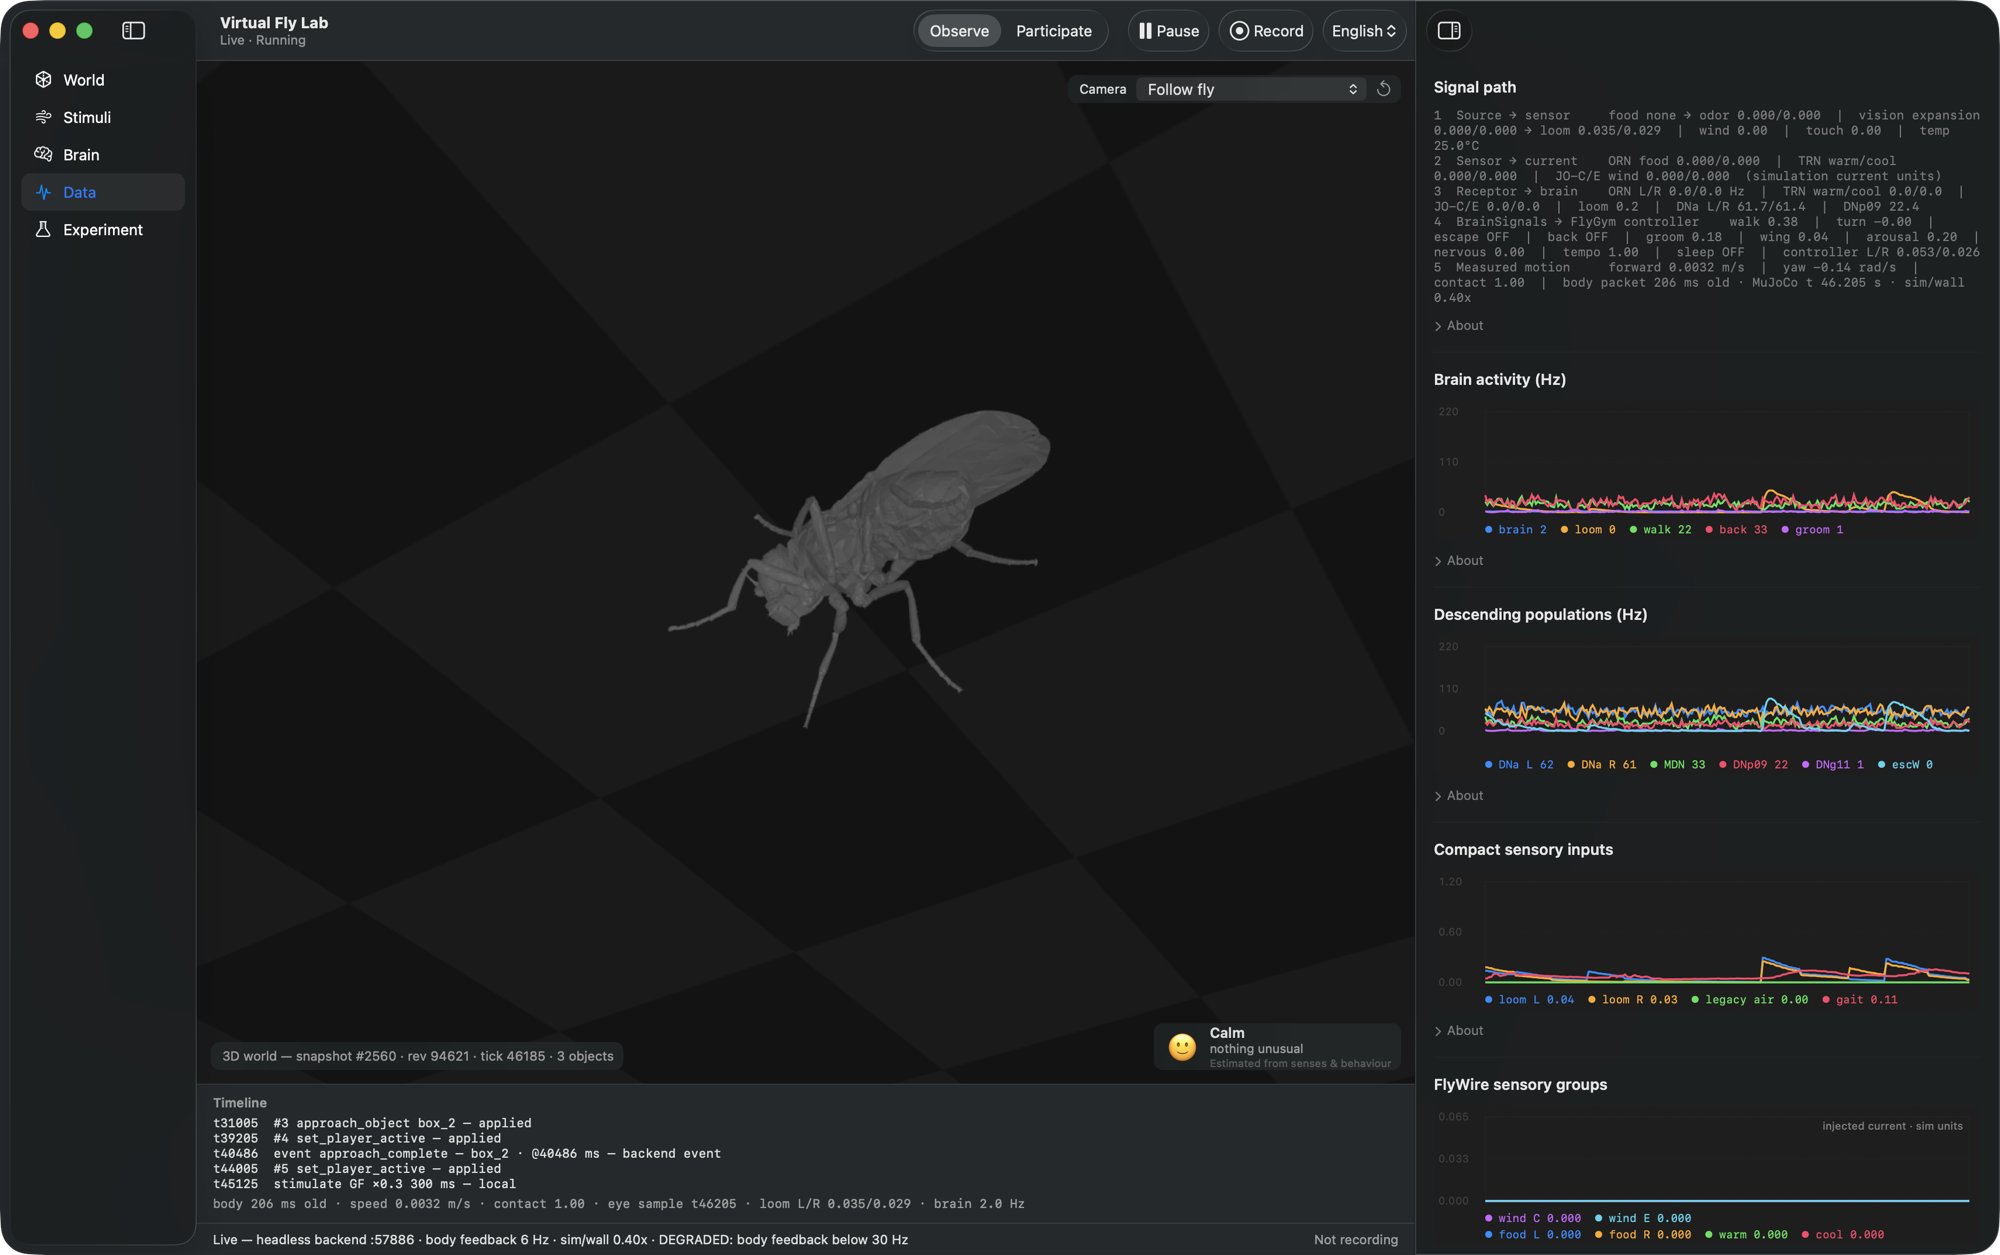
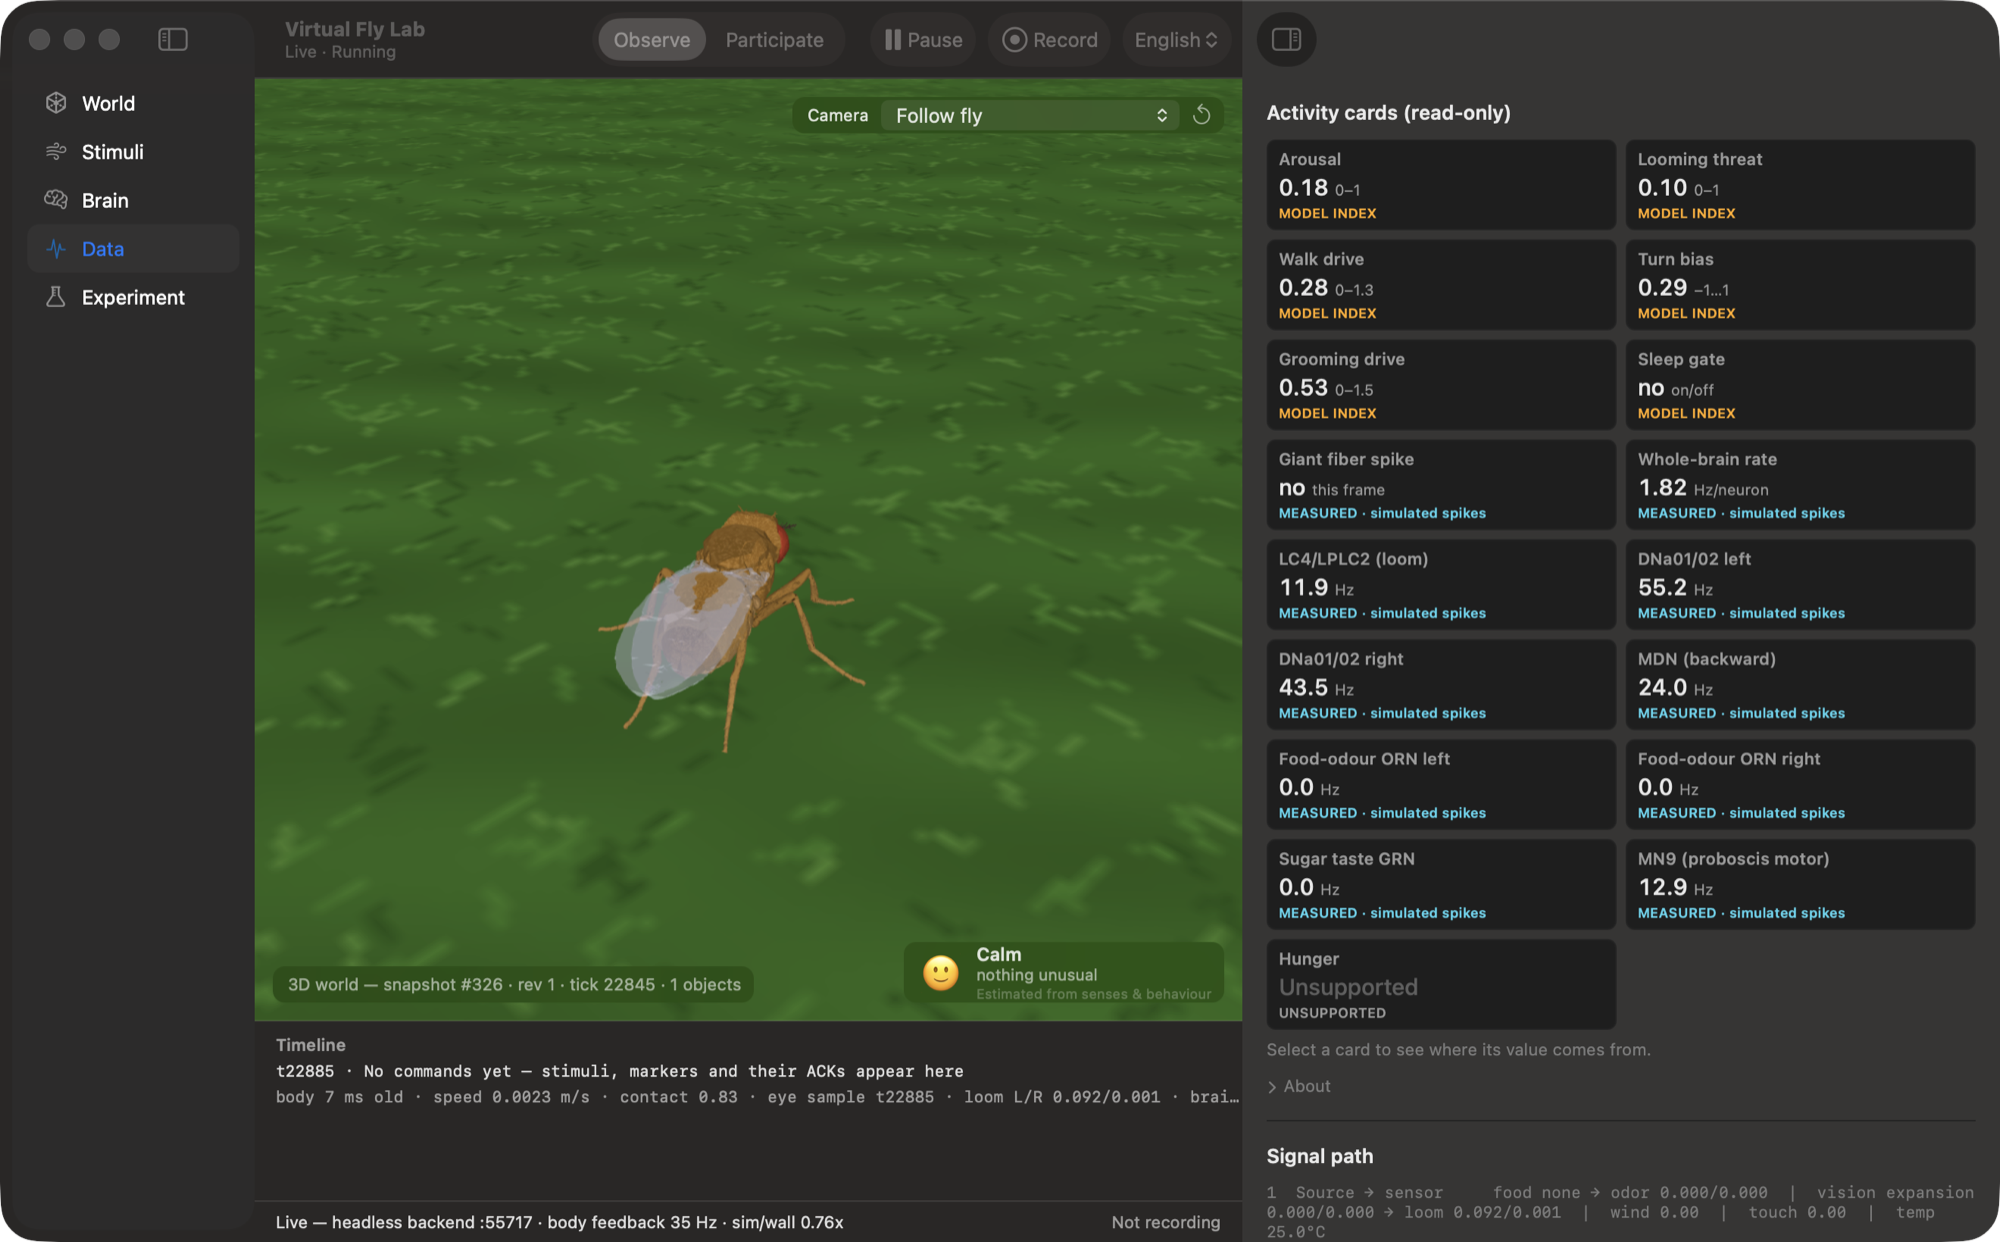
Update README and screenshots for V5.6.2 sandbox, V5.7 cards, performance

diff --git a/README.md b/README.md
@@ -9,20 +9,21 @@
   <img alt="macOS" src="https://img.shields.io/badge/platform-macOS%20·%20Apple%20Silicon-111111?style=flat-square">
   <img alt="Swift" src="https://img.shields.io/badge/frontend-Swift%20%2B%20Metal-F05138?style=flat-square">
   <img alt="FlyGym" src="https://img.shields.io/badge/body-FlyGym%202.1%20%2B%20MuJoCo%203.9-5C7CFA?style=flat-square">
-  <img alt="status" src="https://img.shields.io/badge/V5.6.1-grab%20%26%20place%20·%20complete-2E8B57?style=flat-square">
+  <img alt="status" src="https://img.shields.io/badge/V5.7-sandbox%20·%20activity%20cards-2E8B57?style=flat-square">
 </p>
 
 <p align="center">
-  <img src="docs/images/ui-world.png" width="920" alt="Virtual Fly Lab window: source-list sidebar, MuJoCo render of the NeuroMechFly body following the fly, and the World inspector with the object placement map">
+  <img src="docs/images/ui-world.png" width="920" alt="Virtual Fly Lab window: the colourised NeuroMechFly fly walking on the grass lawn toward a banana, with cheese, an apple and a toy car nearby, and the World inspector with the object placement map">
 </p>
-<p align="center"><sub>The one-window Lab on an M2 MacBook Air, real FlyGym backend. The canvas is MuJoCo's own offscreen render of the NeuroMechFly v2 body; the inspector places physical objects on a top-down map.</sub></p>
+<p align="center"><sub>The one-window Lab on an M2 MacBook Air, real FlyGym backend. The canvas is MuJoCo's own offscreen render: the colourised NeuroMechFly v2 fly on the 300 mm lawn, walking toward a banana next to cheese, an apple and a toy car. The inspector places physical objects on a top-down map. (The status line flags body feedback below 30 Hz right after a pause/resume; it recovers to about 35 Hz.)</sub></p>
 
 **Thongpari Fly Neuron Sim** grew out of the SiliconFly desktop fly into an interactive **virtual fly lab**:
 
 - **Brain** — the shipped FlyWire v783 connectome as a **139,255-neuron, 15,091,983-edge** leaky-integrate-and-fire network at 1 kHz in a Metal compute shader.
 - **Body** — a real **NeuroMechFly v2** model in **FlyGym 2.1 / MuJoCo**, not a scripted animation.
 - **Closed loop** — descending-neuron activity drives the FlyGym walking controller; measured body state, rendered-eye vision, contacts, odor, wind and temperature flow back into identified neural populations.
-- **You** — a participant body in the same MuJoCo world: walk with WASD, look with the mouse, and pick up and carry objects.
+- **You** — a stick-figure participant in the same MuJoCo world: walk with WASD, look with the mouse, pick up and carry objects, and fire a toy BB gun.
+- **Sandbox** — a grass lawn, six food models the fly can actually eat (proboscis contact → sugar-taste neurons), a toy car and a cage trap.
 
 The point is not to fake convincing animal behavior. Every response can be traced along **source → modeled sensor → receptor activity → brain output → controller → measured motion**, and every control says whether it is physical, a sensory model, or direct neural stimulation.
 
@@ -36,15 +37,15 @@ The point is not to fake convincing animal behavior. Every response can be trace
     <td width="50%"><img src="docs/images/ui-brain.png" alt="Brain page: 139,255-neuron point cloud with spike flashes, a colour legend of the behaviour-relevant populations and direct stimulation controls"></td>
   </tr>
   <tr>
-    <td><b>Participate</b> — a free-joint body that collides with the fly and objects. Walk, look, grab and place from first- or third-person cameras.</td>
+    <td><b>Participate</b> — a free-joint body that collides with the fly and objects. Walk, look, grab and place from first- or third-person cameras. <i>(Screenshot from V5.6.1; the participant is now a stick figure.)</i></td>
     <td><b>Brain</b> — the whole-brain point cloud with live spike flashes, what each colour means, and direct stimulation of named populations.</td>
   </tr>
   <tr>
-    <td><img src="docs/images/ui-data.png" alt="Data page: signal path from source to measured motion, brain activity and descending population graphs, sensory inputs"></td>
+    <td><img src="docs/images/ui-data.png" alt="Data page: read-only activity cards (model indices, measured simulated spike rates, sugar-taste GRN, MN9, unsupported hunger) next to the live 3D view"></td>
     <td><img src="docs/images/ui-experiment.png" alt="Experiment page: deterministic session, trial markers, physical and sensory trials, direct neural trials"></td>
   </tr>
   <tr>
-    <td><b>Data</b> — the signal path line by line, plus live graphs of brain activity, descending populations and sensory drive.</td>
+    <td><b>Data</b> — read-only activity cards (V5.7), then the signal path line by line and live graphs of brain activity, descending populations and sensory drive.</td>
     <td><b>Experiment</b> — deterministic sessions, trial markers, preset physical/sensory and direct-neural trials, CSV recording.</td>
   </tr>
 </table>
@@ -53,7 +54,7 @@ The point is not to fake convincing animal behavior. Every response can be trace
 
 ## Status
 
-**V5.6.1 is complete (2026-09-27).** Next on the [roadmap](docs/plans/VIRTUAL_FLY_LAB_ROADMAP.md) is **V5.7** — read-only activity cards built from the telemetry that already exists (no invented hunger/emotion values).
+**V5.6.2 (sandbox) and V5.7 (activity cards) are implemented and pass the automated, real-backend and TCP suites (2026-09-29); final GUI acceptance is pending.** A bit-identical performance pass followed. [V6](docs/plans/VIRTUAL_FLY_LAB_ROADMAP.md) (environment editing) waits for that acceptance — see the [V6 readiness report](docs/reports/V6_START_READINESS_2026-09-28.md).
 
 | Version | What it added |
 |---|---|
@@ -63,7 +64,10 @@ The point is not to fake convincing animal behavior. Every response can be trace
 | V5.1–V5.5 | Atomic 3D snapshots and ray picking, Observe/Participate, cameras, a real participant body, WASD / mouse-look input with strict wire validation |
 | V5.5.1 | One window: sidebar, MuJoCo canvas, inspector; app-owned headless backend; English/Korean |
 | V5.6 | Grab and place: aim, press E to pick up an object, E again to put it down |
-| **V5.6.1** | Carry and input feel: constrained carry (below), latest-frame video, look-sensitivity slider, pointer lock, test-code refactor |
+| V5.6.1 | Carry and input feel: constrained carry (below), latest-frame video, look-sensitivity slider, pointer lock, test-code refactor |
+| **V5.6.2** | Sandbox: stick-figure participant, grass lawn, colourised fly, six food models, feeding with sugar-taste GRNs, toy car, cage trap, BB gun |
+| **V5.7** | Read-only activity cards from existing telemetry, each labelled MEASURED, MODEL INDEX or UNSUPPORTED |
+| Perf | Bit-identical speed-ups: end-to-end sim/wall 0.44 → 0.70×, canvas 17 → 24 fps |
 
 Per-version evidence lives in [`docs/reports/V5_PROGRESS.md`](docs/reports/V5_PROGRESS.md) and [`notes/validation/`](notes/validation/v5-6-1-2026-09-27/README.md).
 
@@ -75,10 +79,10 @@ The Lab is a single standard macOS window: a toolbar (**Observe / Participate**,
 
 | Page | What you can do |
 |---|---|
-| **World** | Place, move, resize and remove boxes, spheres, walls and food sources (fields or click-on-map); make an object approach the fly; participant key bindings and look sensitivity; resets |
+| **World** | Place, move, resize and remove boxes, spheres, walls, food, toy cars and cage traps (fields or click-on-map); drive a car or re-arm a trap; make an object approach the fly; participant key bindings and look sensitivity; resets |
 | **Stimuli** | Cover or flash either eye, wind (physical force and/or modeled antennal drive), touch thorax/head/abdomen/legs, temperature mode |
 | **Brain** | Whole-brain point cloud, neuron selection, direct stimulation of GF, DNa, MDN, DNp09, DNg11, LC4/LPLC2 and the exposed receptor groups |
-| **Data** | Source state, receptor drive and spike rates, decoded `BrainSignals`, controller output, packet age, sim/wall timing, measured motion |
+| **Data** | Activity cards; source state, receptor drive and spike rates, decoded `BrainSignals`, controller output, packet age, sim/wall timing, measured motion |
 | **Experiment** | Deterministic session, markers, looming/wind/touch/direct-neural presets, replay, recording |
 
 Every control is labeled with the kind of intervention it is:
@@ -97,12 +101,24 @@ Choose **Participate**, then click the 3D view to take control. The cursor hides
 |---|---|
 | **W A S D** | walk (remappable on the World page) |
 | **Mouse** | look; speed on the **Look sensitivity** slider (default 0.0015 rad/pt, saved) |
-| **E** | grab the object under the center mark (within 12 mm); press again to place it |
+| **E** | grab the object under the center mark (within 16 mm); press again to place it |
+| **G / F** | equip the toy BB gun / fire along the view direction (a click also fires while it is equipped) |
 | **Esc** | release control; focus loss, mode change and window close release it too |
 
 Movement is integrated in **simulation time**, not frame rate or key repeat. Mouse-look deltas are applied exactly once however the OS splits the events.
 
 **Carrying** is kinematic and XY-only at up to 40 mm/s, held just in front of where you look. Since V5.6.1 each 0.1 ms physics substep is constrained *before* it is taken: MuJoCo's signed distance and witness points give the surface normal and remaining gap to nearby objects and to your own body, and the step keeps only what every surface allows. A held box therefore slides along walls and swings around you instead of pushing into you. It keeps 0.5 mm from the participant and stops 0.005 mm short of other objects. The older approaches — straight chase, polar sweep, tangent slide — each shoved the participant (up to 32.5 mm) or stuck against walls in real-MuJoCo tests. A post-step guard still reverts any step that deepens a penetration.
+
+### Sandbox: food, feeding, toys
+
+- **Lawn and fly.** The FlyGym floor is textured as a 300 × 300 mm lawn (collision is unchanged), and the fly uses NeuroMechFly's own colourised materials.
+- **Food.** Apple, banana, cheese, grapes, cookie and sugar cube, cycling on each spawn. Food can be carried to lure the fly; the odour model is unchanged.
+- **Feeding.** When the proboscis tip (`c_haustellum`) touches food, the food shrinks and disappears (`feeding_begin`, `feeding_end`, `food_eaten`). While eating, `taste_sugar` drives the **21 left-labellum sugar GRNs** from the v783 list (eonsystemspbc/fly-brain `a3db62f9`); MN9 is shown read-only. The current gain and per-food sugar are model assumptions. There is no reward, hunger or scripted approach — odour alone produces no taste signal.
+- **Toys.** A toy car drives straight and stops on contact (`car_hit_fly`); a glass cage trap drops only when the fly is fully underneath; the BB gun fires real-gravity pellets aimed at the ray hit under the center mark. The trajectory line is in a geom group the fly's eyes never render. Any fly response comes from physics and the existing sensory paths.
+
+### Activity cards
+
+The Data page opens with 17 read-only cards. **MEASURED** cards are spike rates or events of the simulated connectome (not a real fly); **MODEL INDEX** cards are the readouts that drive the body model; **Hunger** is shown as **UNSUPPORTED** because it is not modelled. Clicking a card only shows where its value comes from; it never stimulates or commands anything.
 
 ---
 
@@ -169,7 +185,7 @@ The launcher rebuilds when a Swift source is newer than the binary, then runs `.
 
 If macOS "Optimize Mac Storage" has offloaded `flygym-venv` to iCloud, the first backend start downloads each Python file on demand and can take many minutes. Keep the project folder downloaded.
 
-**Performance.** On the 8 GB M2 MacBook Air in the screenshots, the full real body with the render stream ran at about **0.4× real time**. The status line flags it as `DEGRADED: body feedback below 30 Hz` rather than hiding it. The V3-era launcher run with MuJoCo's separate viewer measured ~0.8×. These are machine-specific observations, not benchmarks.
+**Performance.** On the 8 GB M2 MacBook Air in the screenshots, the full real body with the render stream now runs at about **0.7× real time** with ~35 Hz body feedback and a 24 fps canvas (it was ~0.44× / 17 fps before the 2026-09-29 pass). Every change in that pass was checked to leave physics bit-identical (qpos/qvel hashes over 90 intervals). The remaining cost is MuJoCo's own step (~74%) and the FlyGym controller; going further would change timestep or solver. When feedback drops below 30 Hz the status line says `DEGRADED` rather than hiding it. These are machine-specific observations, not benchmarks. Details: [`V5_PROGRESS.md`](docs/reports/V5_PROGRESS.md).
 
 ---
 
@@ -207,7 +223,7 @@ Self-tests are built into the binary; Python tests run against the mock and the 
 
 Against a fresh backend (`./run_flygym.sh --bridge-only`, or `bridge.py --mock`), `--bridgeloop`, `--labloop`, `--v4loop` and `--interactionloop` exercise the real TCP path. `--inputprobe` measures input latency and look cadence, and exits non-zero if its preconditions fail.
 
-Latest full run (V5.6.1, 2026-09-27): **10/10 Python suites, 7/7 Swift self-tests, 7/7 TCP runs** (mock and real headless) passed. The carry scenarios hold the participant still across the whole path (0.0000 mm) and have negative controls. Details: [V5.6.1 validation](notes/validation/v5-6-1-2026-09-27/README.md).
+Latest full run (V5.6.2 + V5.7 + performance, 2026-09-29): Python suites, Swift self-tests and fresh-backend TCP loops passed, except one known `test_lab_real` capacity check (food slot count 8) unrelated to the performance pass. Details: [2026-09-29 validation](notes/validation/v5-independent-2026-09-29/README.md). New suites: `test_v5_6_2.py`, `test_v5_6_2_tools.py`.
 
 ---
 
@@ -238,6 +254,7 @@ Use it for **controlled comparisons inside the same model**, not as a claim that
 ├── WorldViewer.swift, MuJoCoCanvas.swift    3D canvas: camera, picking, participate input, MuJoCo frames
 ├── PlayerController.swift         WASD / mouse-look / focus / remap / look sensitivity
 ├── BrainView.swift                139k-neuron point cloud (Brain page)
+├── ActivityCards.swift            read-only activity cards (Data page)
 ├── ExperimentRecorder.swift       events + CSV recording
 ├── LabLocalization.swift          English / Korean strings
 ├── LabDiagnostics.swift           --labtest
@@ -248,7 +265,8 @@ Use it for **controlled comparisons inside the same model**, not as a claim that
 │   ├── fly_body.py                mock + real FlyGym body
 │   ├── lab_world.py               world objects, stimuli, carry constraints
 │   ├── interaction.py             grab / place contract and constrained carry step
-│   ├── player_body.py             participant physics and movement
+│   ├── player_body.py             participant (stick figure) physics and movement
+│   ├── sandbox_models.py          food, car, trap, BB and stick-figure models from MuJoCo primitives
 │   ├── view_stream.py             MuJoCo offscreen render stream for the canvas
 │   ├── vision_decoder.py          rendered-eye decoder
 │   └── test_*.py                  Python regression suite
@@ -256,7 +274,7 @@ Use it for **controlled comparisons inside the same model**, not as a claim that
 └── docs/                          guides, plans + roadmap, reports, reference
 ```
 
-Controls and preset values: **[Virtual Fly Lab guide](docs/guides/VIRTUAL_FLY_LAB_GUIDE.md)**. Bridge internals and protocol: **[flygym_bridge/README.md](flygym_bridge/README.md)**. The **[V4–V14 roadmap](docs/plans/VIRTUAL_FLY_LAB_ROADMAP.md)** is implemented strictly in order; V6–V14 remain planned.
+Controls and preset values: **[Virtual Fly Lab guide](docs/guides/VIRTUAL_FLY_LAB_GUIDE.md)**. Bridge internals and protocol: **[flygym_bridge/README.md](flygym_bridge/README.md)**. The **[V4–V14 roadmap](docs/plans/VIRTUAL_FLY_LAB_ROADMAP.md)** is implemented strictly in order; V6–V14 remain planned. Sandbox contract: **[V5.6.2 spec](docs/plans/VIRTUAL_FLY_LAB_V5_6_2_SANDBOX_SPEC.md)**.
 
 ---
 
@@ -277,7 +295,7 @@ Please cite the relevant upstream projects and papers when using their data or m
 
 - `docs/images/neuromechfly-v2.jpg` — simulated NeuroMechFly v2 scene, **Ramdya laboratory, EPFL**, **CC BY-SA 4.0**: <https://actu.epfl.ch/news/simulating-how-fruit-flies-see-smell-and-navigat-4>.
 - `docs/images/drosophila-melanogaster.jpg` — *Drosophila melanogaster* by **Alexis** (`alexis_orion` on iNaturalist), **CC BY 4.0**, Wikimedia Commons: <https://commons.wikimedia.org/wiki/File:Drosophila_melanogaster_53362116.jpg>.
-- `docs/images/ui-*.png` — screenshots of this app, captured 2026-09-27.
+- `docs/images/ui-*.png` — screenshots of this app: `ui-world.png` and `ui-data.png` captured 2026-09-30, the others 2026-09-27.
 
 ---
 
